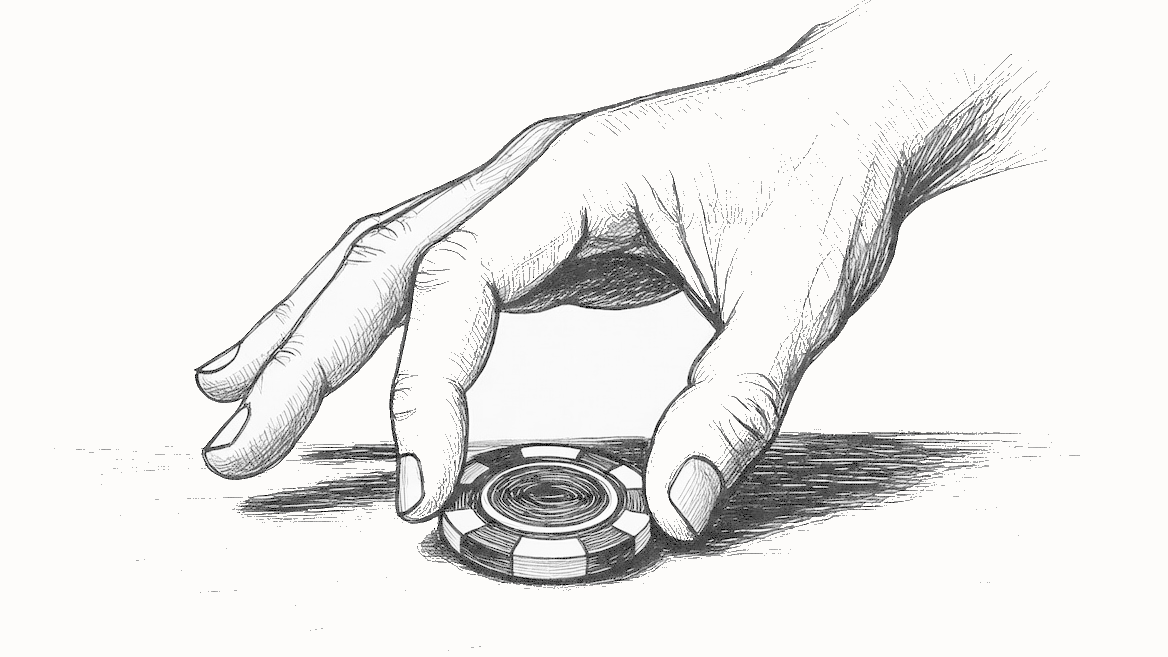
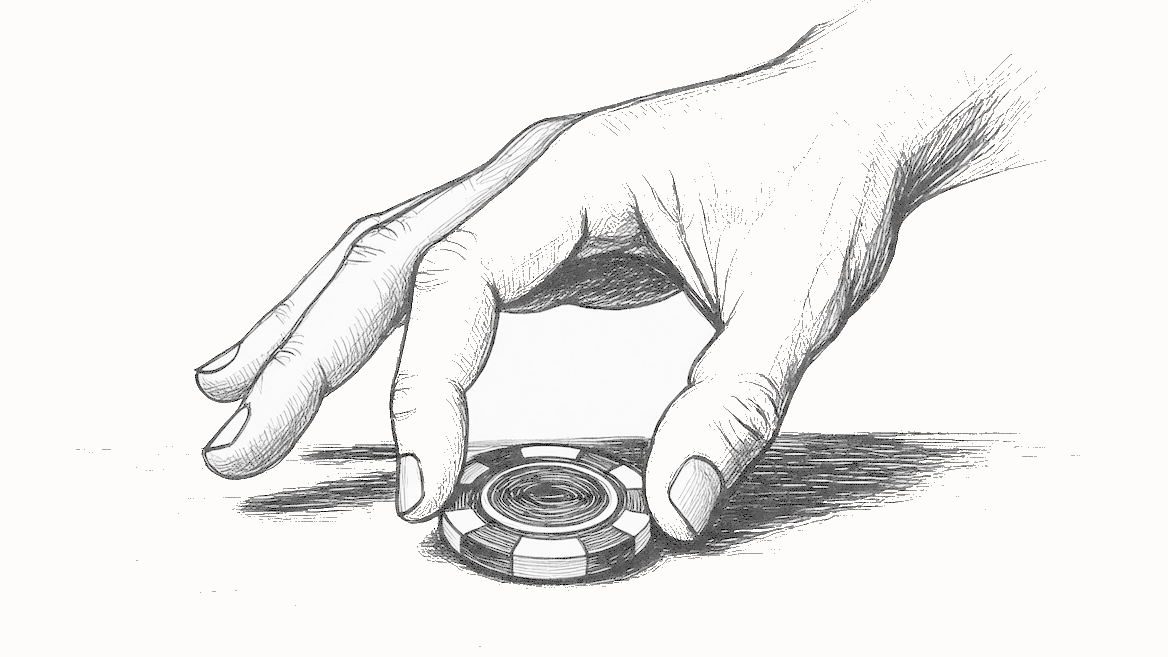
Hero image updates: build-it-anyway gamma 3.5, new product-first image
- build-it-anyway.png: lighter gamma (3.5) for better tone match
- product-first-partnerships-second.png: regenerated with clean strokes
- V4V essay: merged intro paragraphs

diff --git a/content/essays/V4V can't win. Build it anyway.md b/content/essays/V4V can't win. Build it anyway.md
@@ -13,13 +13,11 @@ hero_alt: A hand placing a poker chip down
 
 There's an idea I find compelling: what if you could pay creators directly instead of watching ads? What if the money currently flowing to Big Tech through your attention and data went to the people actually making things you value?
 
-This is the promise behind "value for value"---a model where you voluntarily pay for content instead of being monetized through surveillance. It's the philosophy behind Bitcoin micropayments, Podcasting 2.0, and platforms like Nostr. The premise: if you're paying, you're the customer. If you're not, you're the product. Payment equals sovereignty over your own attention.
-
-But if you're building V4V platforms, Lightning infrastructure, Nostr clients---you need to know what the data actually says. Not to abandon the mission, but to build with clear eyes.
+This is the promise behind "value for value"---a model where you voluntarily pay for content instead of being monetized through surveillance. It's the philosophy behind Bitcoin micropayments, Podcasting 2.0, and platforms like Nostr. The premise: if you're paying, you're the customer. If you're not, you're the product.
 
 <!--more-->
 
-I host my podcast, Trust Revolution, on a V4V platform. I accept these payments. I want this model to work. But wanting something to work isn't the same as it working. Anyone exploring alternatives to the extraction economy deserves an honest look at the results---not just the philosophy.
+But if you're building V4V platforms, Lightning infrastructure, Nostr clients---you need to know what the data actually says. Not to abandon the mission, but to build with clear eyes. I host my podcast, Trust Revolution, on a V4V platform. I accept these payments. I want this model to work. That doesn't mean it does.
 
 Companies like Google and Meta capture roughly $670 a year from the average American through attention and data. That's real money, even if you never see it leave your pocket. The question is whether voluntary payment can redirect even a fraction of that---and whether it can do so at a scale that actually sustains creators and platforms.
 
